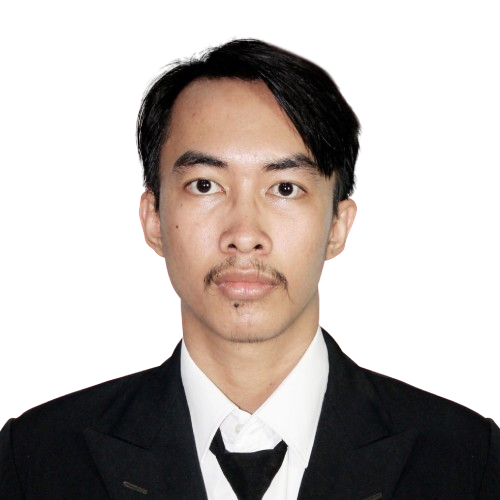
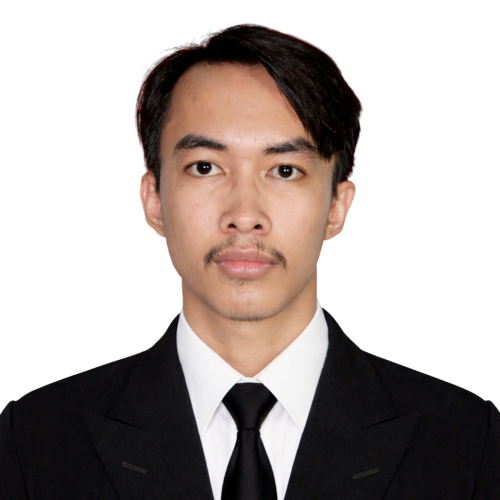
update foto dan cv

Changed region(s): [[0.0, 0.03, 1.0, 1.0], [0.72, 0.99, 0.78, 1.0], [0.24, 0.96, 0.3, 0.99]]

diff --git a/index.html b/index.html
@@ -1,4 +1,4 @@
-<!DOCTYPE html>
+<!doctype html>
 <html lang="en">
   <head>
     <title>Rafli Januar Rizki - Portfolio Website</title>
@@ -91,7 +91,7 @@
             </div>
             <div class="about-text">
               <p>
-                Halo, nama saya Rafli Januar Rizki, dan saya berumur 24 tahun.
+                Halo, nama saya Rafli Januar Rizki, dan saya berumur 25 tahun.
                 Saya menempuh pendidikan S1 jurusan Sistem Informasi di
                 Universitas KH. Bahaudin Mudhary Madura. Saya menjadi bagian
                 dari PT Instinc Technology Solution yang telah berdiri sejak
@@ -156,6 +156,14 @@
               <!-- Experience Start -->
               <div class="tab-content" id="experience">
                 <div class="timeline">
+                  <div class="timeline-item">
+                    <span class="date"> 2026 - Sekarang </span>
+                    <h4>
+                      Employee -
+                      <span>Gameplay Akbar PS4</span>
+                    </h4>
+                    <p></p>
+                  </div>
                   <div class="timeline-item">
                     <span class="date"> 2021 - Sekarang </span>
                     <h4>